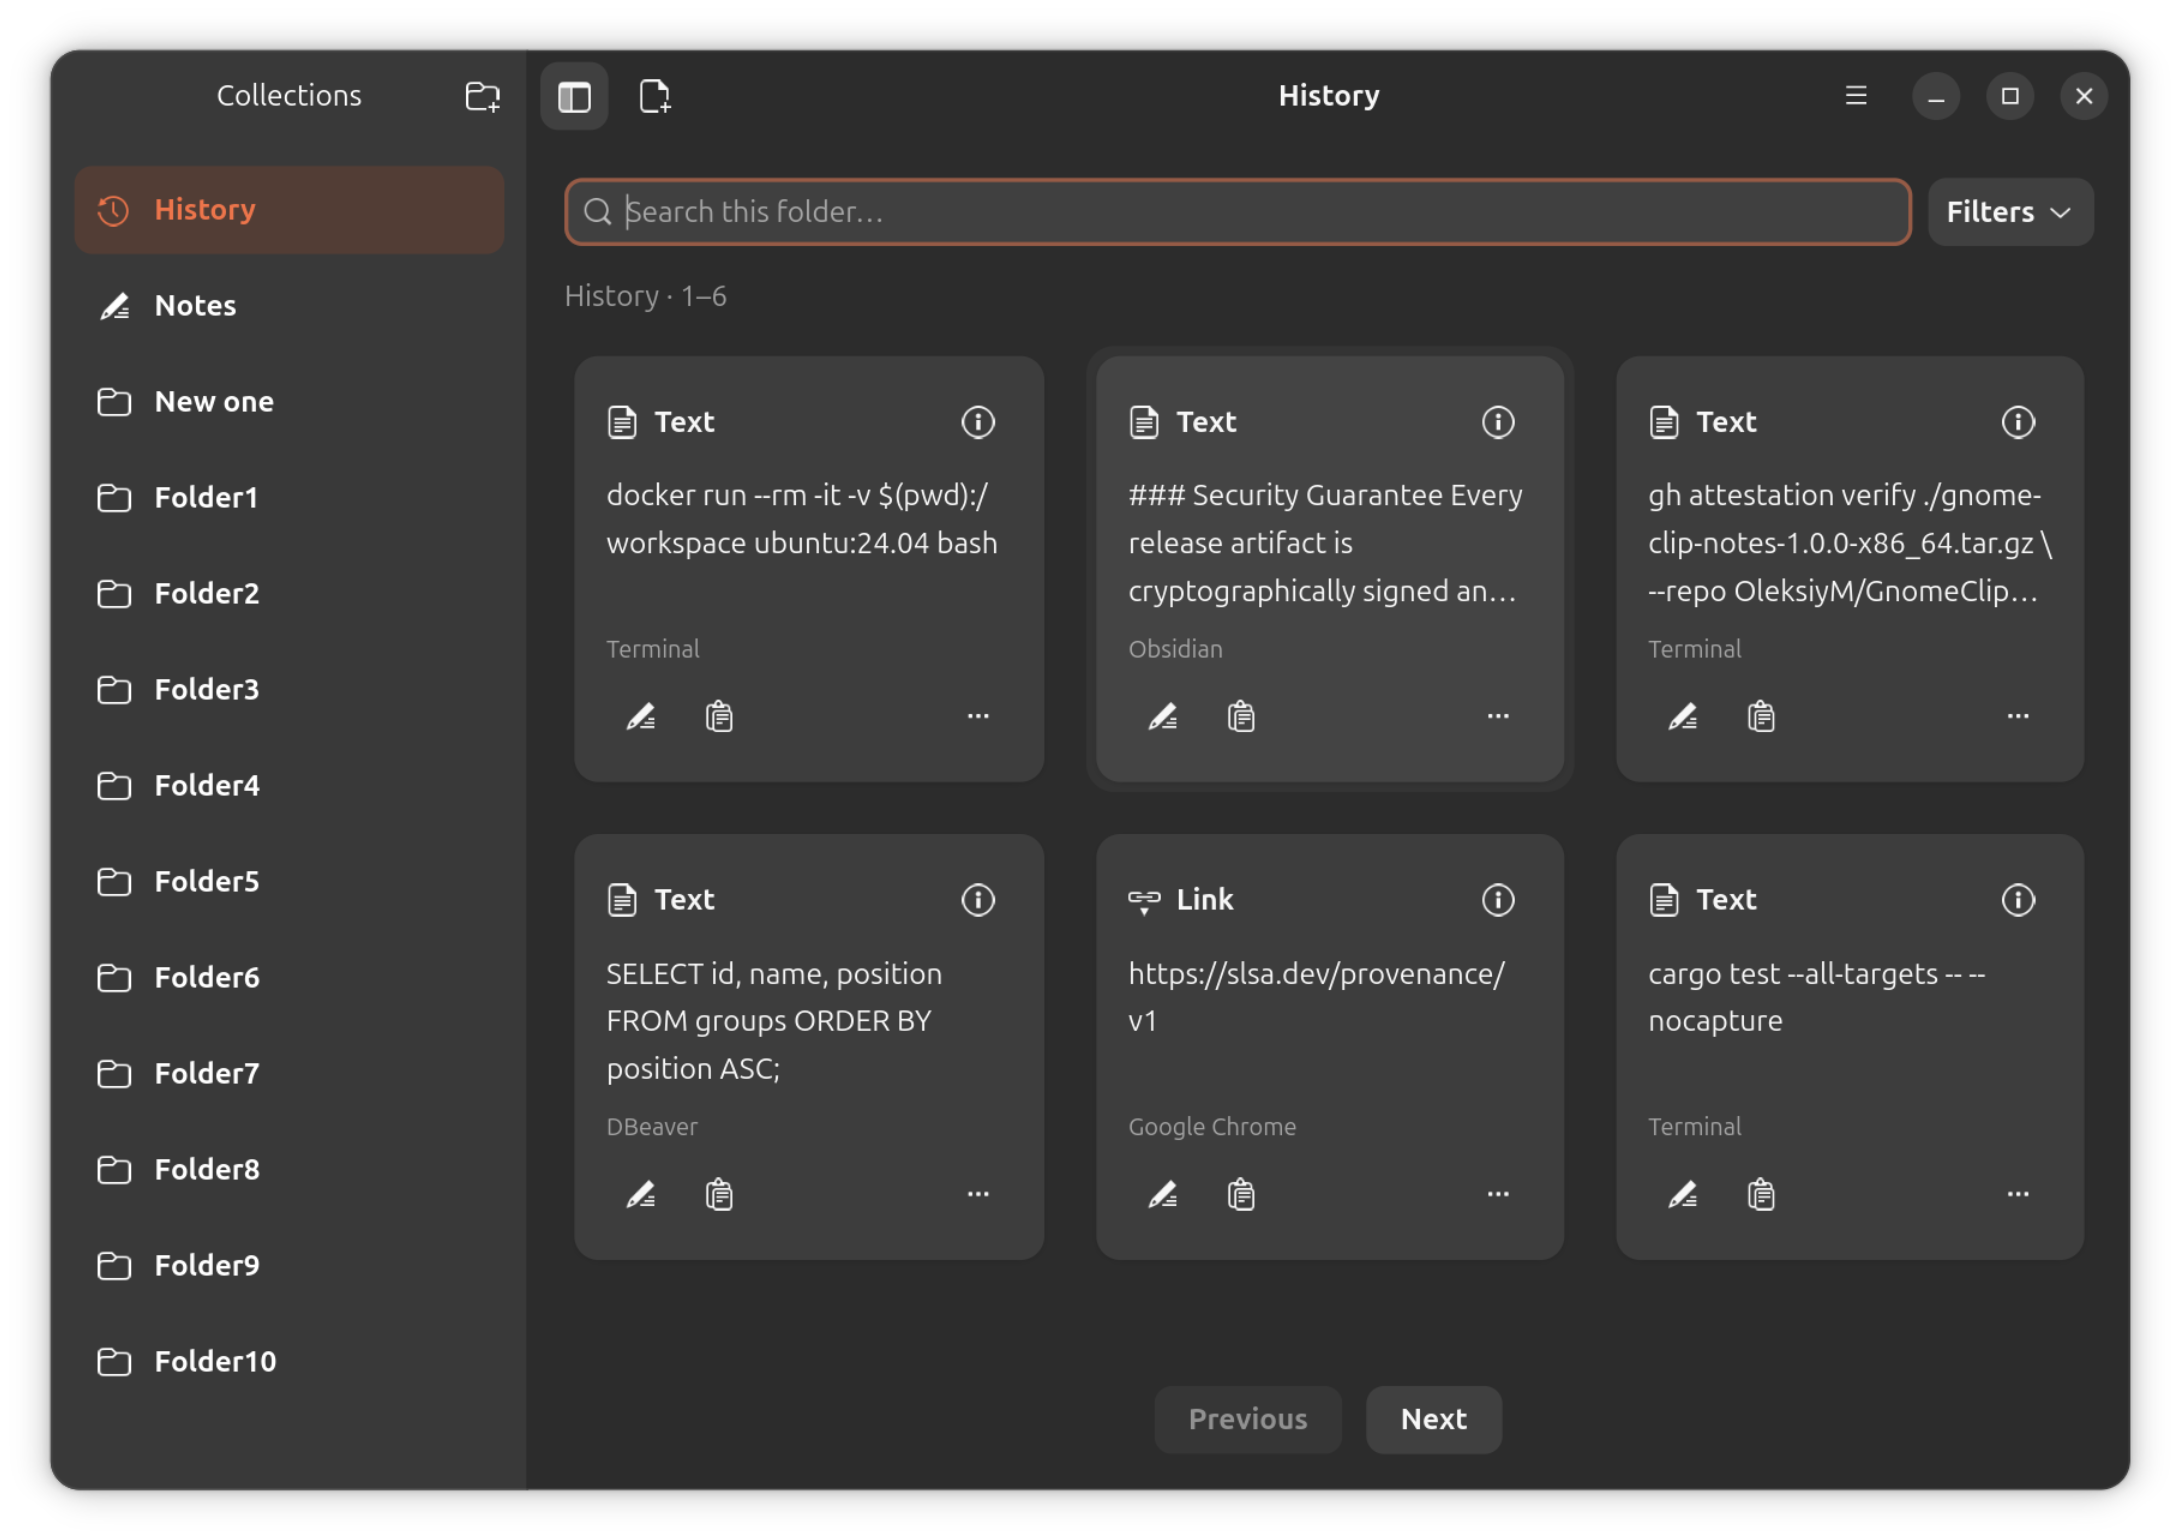
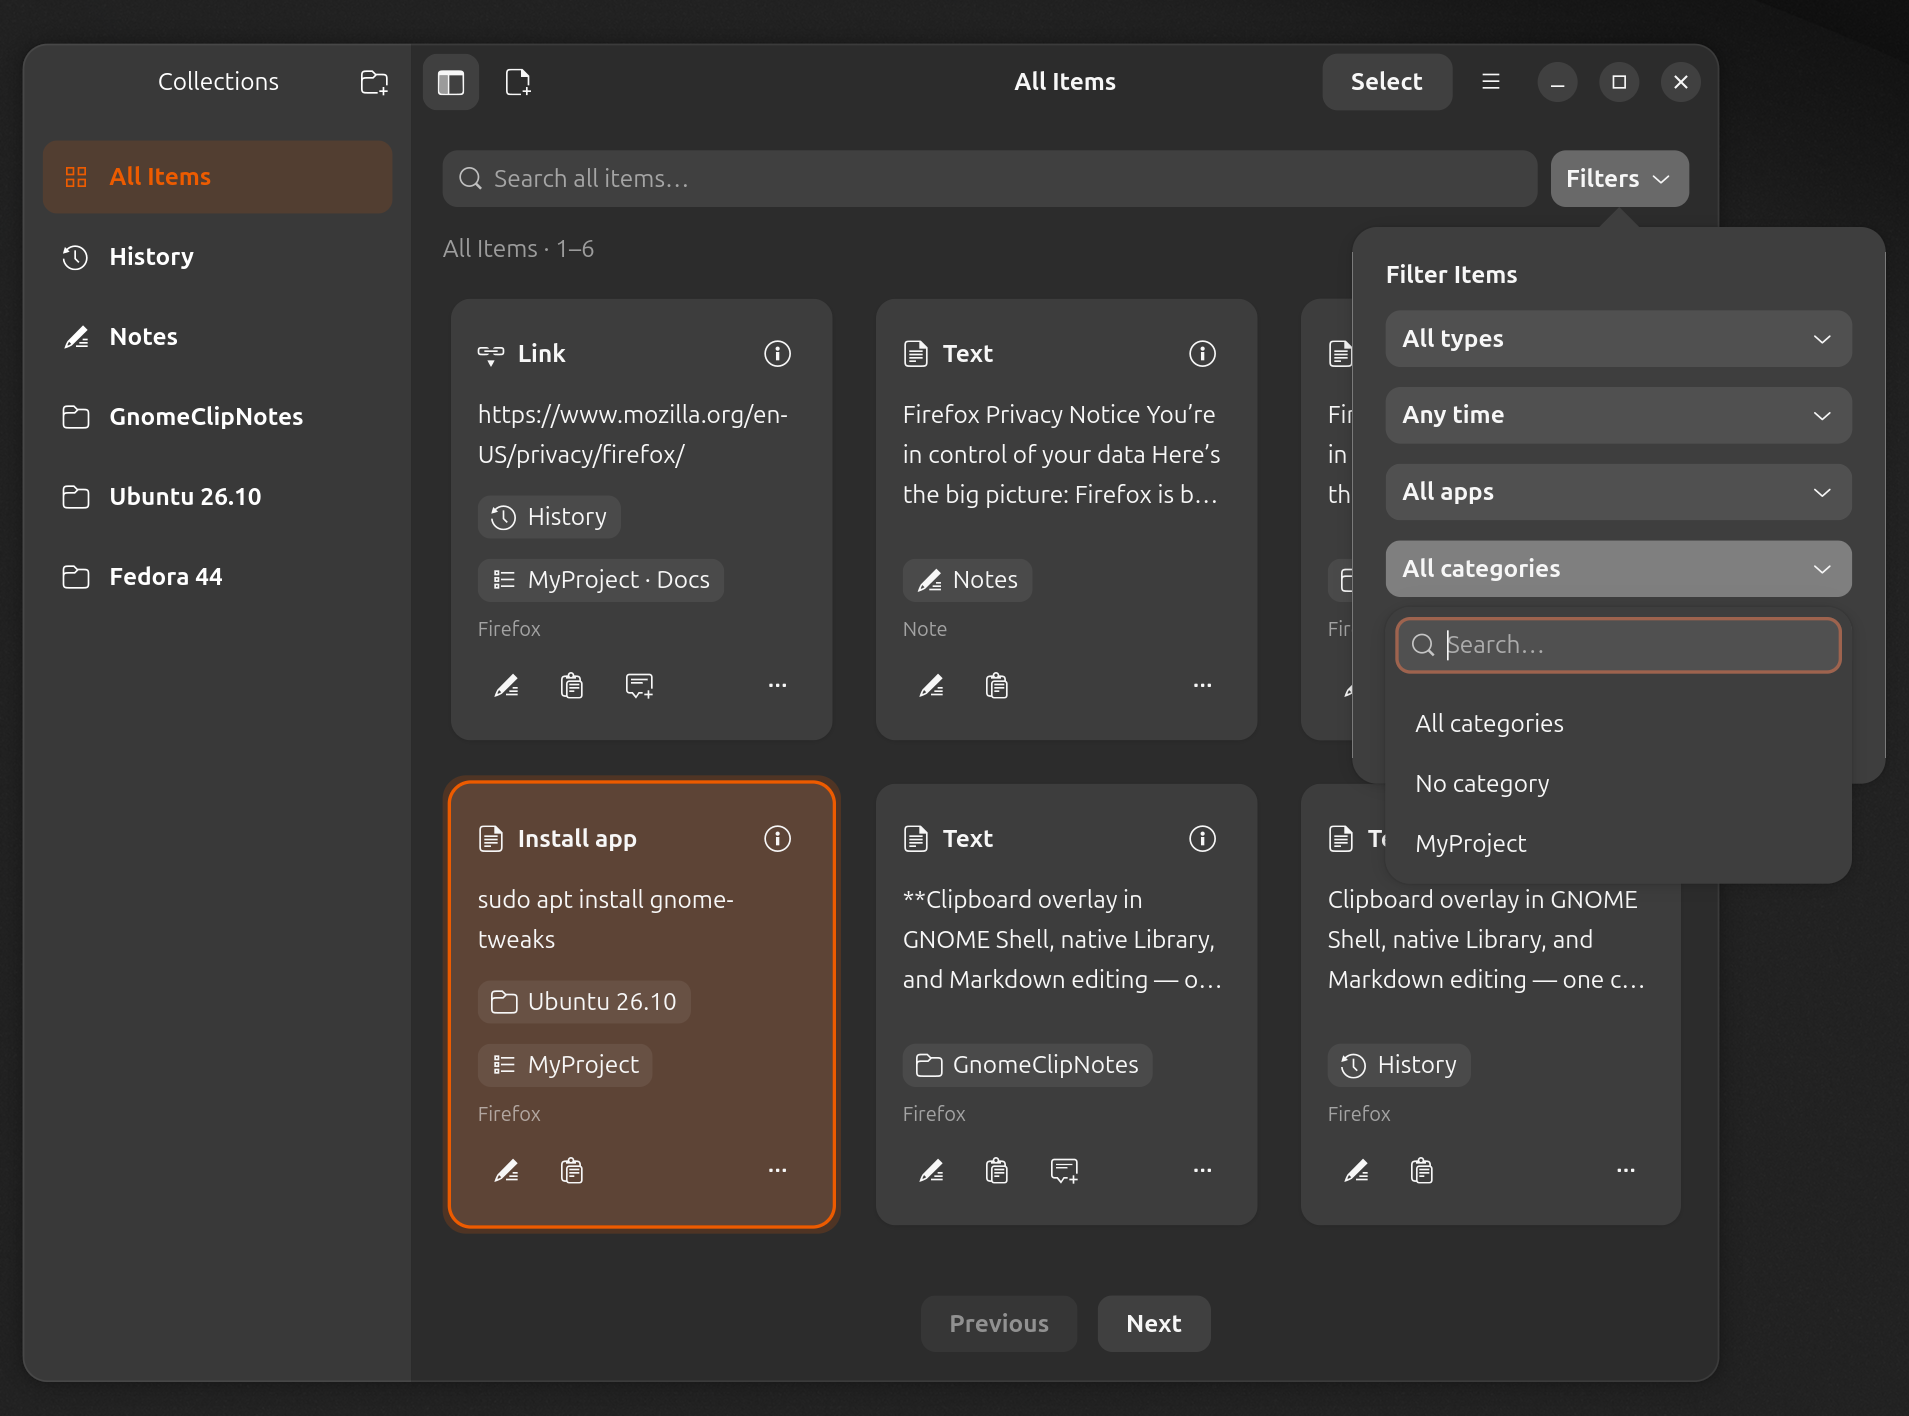
docs(site): update screenshots and allow manual site deployment via workflow_dispatch

diff --git a/site/index.html b/site/index.html
@@ -44,11 +44,11 @@
           <figcaption><strong>Overlay</strong> — search, filter and paste without leaving the current app.</figcaption>
         </figure>
         <figure>
-          <a class="gallery-frame" href="assets/library-dark.png"><img src="assets/library-dark.png" width="2180" height="1540" alt="Dark Library with six history cards and a sidebar containing Notes and custom folders." loading="lazy"></a>
+          <a class="gallery-frame" href="assets/library-dark.png"><img src="assets/library-dark.png" width="1909" height="1416" alt="Dark Library with six history cards and a sidebar containing Notes and custom folders." loading="lazy"></a>
           <figcaption><strong>Library</strong> — turn clipboard history into persistent notes and folders.</figcaption>
         </figure>
         <figure>
-          <a class="gallery-frame" href="assets/library-light.png"><img src="assets/library-light.png" width="2180" height="1540" alt="The same Library in the light theme, with distinct white cards and a collection sidebar." loading="lazy"></a>
+          <a class="gallery-frame" href="assets/library-light.png"><img src="assets/library-light.png" width="2238" height="1688" alt="The same Library in the light theme, with distinct white cards and a collection sidebar." loading="lazy"></a>
           <figcaption><strong>Light theme</strong> — the same workspace, with native colors and clear card boundaries.</figcaption>
         </figure>
         <figure>
@@ -60,7 +60,7 @@
           <figcaption><strong>Full preview</strong> — richer Markdown when you need it.</figcaption>
         </figure>
         <figure>
-          <a class="gallery-frame" href="assets/settings-dark.png"><img src="assets/settings-dark.png" width="1874" height="1309" alt="Settings with a navigation sidebar, appearance controls and the Full or Lightweight note preview choice." loading="lazy"></a>
+          <a class="gallery-frame" href="assets/settings-dark.png"><img src="assets/settings-dark.png" width="2250" height="1740" alt="Settings with a navigation sidebar, appearance controls and the Full or Lightweight note preview choice." loading="lazy"></a>
           <figcaption><strong>Settings</strong> — choose your appearance, preview and capture behavior.</figcaption>
         </figure>
         <figure>
